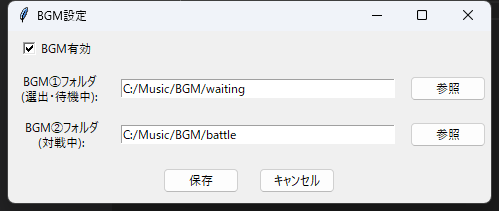
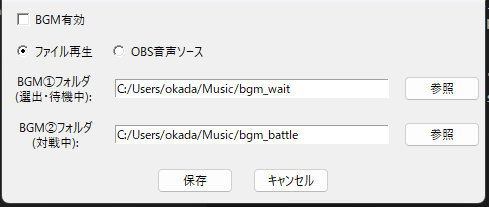
feat: BGM設定にOBS音声ソースモードを追加、バージョンを1.2.0に更新
- BGM設定にファイル再生/OBS音声ソースの2モード切り替えを追加
- OBSモードではゲームフェーズに応じて音声ソースのミュートをON/OFF制御
- BGM設定画面のスクショを更新（ファイル再生・OBSモード別）
- READMEのBGM設定説明を両モード対応に書き直し
- bgm.jsonをアップデート保持ファイルに追記

diff --git a/recog/recog.py b/recog/recog.py
@@ -323,29 +323,69 @@ class BgmSetting(tkinter.Toplevel):
             with open(self.path, "r", encoding="utf-8") as f:
                 self.initial_data = json.load(f)
         except FileNotFoundError:
-            self.initial_data = {"bgm_enabled": False, "bgm1_folder": "", "bgm2_folder": ""}
+            self.initial_data = {
+                "bgm_enabled": False,
+                "bgm_mode": "file",
+                "bgm1_folder": "",
+                "bgm2_folder": "",
+                "obs_audio_source1": "",
+                "obs_audio_source2": "",
+            }
 
         self.bgm_enabled_var = tkinter.BooleanVar(value=self.initial_data.get("bgm_enabled", False))
         tkinter.Checkbutton(self, text="BGM有効", variable=self.bgm_enabled_var).grid(
             row=0, column=0, columnspan=3, padx=10, pady=5, sticky="w"
         )
 
-        tkinter.Label(self, text="BGM①フォルダ\n(選出・待機中):").grid(row=2, column=0, padx=10, pady=5, sticky="e")
-        self.bgm1_var = tkinter.StringVar(value=self.initial_data.get("bgm1_folder", ""))
-        self.bgm1_entry = tkinter.Entry(self, textvariable=self.bgm1_var, width=45)
-        self.bgm1_entry.grid(row=2, column=1, padx=10, pady=5)
-        MyButton(self, text="参照", command=self._browse_bgm1).grid(row=2, column=2, padx=5)
+        self.bgm_mode_var = tkinter.StringVar(value=self.initial_data.get("bgm_mode", "file"))
+        mode_frame = tkinter.Frame(self)
+        mode_frame.grid(row=1, column=0, columnspan=3, padx=10, pady=2, sticky="w")
+        tkinter.Radiobutton(
+            mode_frame, text="ファイル再生", variable=self.bgm_mode_var, value="file",
+            command=self._on_mode_change,
+        ).pack(side="left")
+        tkinter.Radiobutton(
+            mode_frame, text="OBS音声ソース", variable=self.bgm_mode_var, value="obs",
+            command=self._on_mode_change,
+        ).pack(side="left", padx=(10, 0))
 
-        tkinter.Label(self, text="BGM②フォルダ\n(対戦中):").grid(row=3, column=0, padx=10, pady=5, sticky="e")
+        self._content_frame = tkinter.Frame(self)
+        self._content_frame.grid(row=2, column=0, columnspan=3, sticky="ew")
+
+        self._file_frame = tkinter.Frame(self._content_frame)
+        self.bgm1_var = tkinter.StringVar(value=self.initial_data.get("bgm1_folder", ""))
         self.bgm2_var = tkinter.StringVar(value=self.initial_data.get("bgm2_folder", ""))
-        self.bgm2_entry = tkinter.Entry(self, textvariable=self.bgm2_var, width=45)
-        self.bgm2_entry.grid(row=3, column=1, padx=10, pady=5)
-        MyButton(self, text="参照", command=self._browse_bgm2).grid(row=3, column=2, padx=5)
+        tkinter.Label(self._file_frame, text="BGM①フォルダ\n(選出・待機中):").grid(row=0, column=0, padx=10, pady=5, sticky="e")
+        self.bgm1_entry = tkinter.Entry(self._file_frame, textvariable=self.bgm1_var, width=45)
+        self.bgm1_entry.grid(row=0, column=1, padx=10, pady=5)
+        MyButton(self._file_frame, text="参照", command=self._browse_bgm1).grid(row=0, column=2, padx=5)
+        tkinter.Label(self._file_frame, text="BGM②フォルダ\n(対戦中):").grid(row=1, column=0, padx=10, pady=5, sticky="e")
+        self.bgm2_entry = tkinter.Entry(self._file_frame, textvariable=self.bgm2_var, width=45)
+        self.bgm2_entry.grid(row=1, column=1, padx=10, pady=5)
+        MyButton(self._file_frame, text="参照", command=self._browse_bgm2).grid(row=1, column=2, padx=5)
+
+        self._obs_frame = tkinter.Frame(self._content_frame)
+        self.obs_source1_var = tkinter.StringVar(value=self.initial_data.get("obs_audio_source1", ""))
+        self.obs_source2_var = tkinter.StringVar(value=self.initial_data.get("obs_audio_source2", ""))
+        tkinter.Label(self._obs_frame, text="BGM①音声ソース名\n(選出・待機中):").grid(row=0, column=0, padx=10, pady=5, sticky="e")
+        tkinter.Entry(self._obs_frame, textvariable=self.obs_source1_var, width=45).grid(row=0, column=1, padx=10, pady=5)
+        tkinter.Label(self._obs_frame, text="BGM②音声ソース名\n(対戦中):").grid(row=1, column=0, padx=10, pady=5, sticky="e")
+        tkinter.Entry(self._obs_frame, textvariable=self.obs_source2_var, width=45).grid(row=1, column=1, padx=10, pady=5)
+
+        self._on_mode_change()
 
         btn_frame = tkinter.Frame(self)
-        btn_frame.grid(row=4, column=0, columnspan=3, pady=10)
+        btn_frame.grid(row=3, column=0, columnspan=3, pady=10)
         MyButton(btn_frame, text="保存", command=self.submit_form).pack(side="left", padx=10)
         MyButton(btn_frame, text="キャンセル", command=self.destroy).pack(side="left", padx=10)
+
+    def _on_mode_change(self):
+        if self.bgm_mode_var.get() == "file":
+            self._obs_frame.pack_forget()
+            self._file_frame.pack(fill="x")
+        else:
+            self._file_frame.pack_forget()
+            self._obs_frame.pack(fill="x")
 
     def open(self, location=tuple[int, int]):
         self.grab_set()
@@ -367,8 +407,11 @@ class BgmSetting(tkinter.Toplevel):
     def submit_form(self):
         data = {
             "bgm_enabled": self.bgm_enabled_var.get(),
+            "bgm_mode": self.bgm_mode_var.get(),
             "bgm1_folder": self.bgm1_var.get(),
             "bgm2_folder": self.bgm2_var.get(),
+            "obs_audio_source1": self.obs_source1_var.get(),
+            "obs_audio_source2": self.obs_source2_var.get(),
         }
         with open(self.path, "w", encoding="utf-8") as f:
             json.dump(data, f, indent=2, ensure_ascii=False)

diff --git a/recog/capture.py b/recog/capture.py
@@ -48,8 +48,11 @@ class Capture:
         self.on_party_progress = None  # callback(current: int, total: int)
 
         self._bgm_enabled: bool = False
+        self._bgm_mode: str = "file"
         self._bgm1_folder: str = ""
         self._bgm2_folder: str = ""
+        self._obs_audio_source1: str = ""
+        self._obs_audio_source2: str = ""
         self._bgm_playing: str = ""
         self._sensyutu_end_disappeared_time: float | None = None
         self._load_bgm_config()
@@ -65,8 +68,11 @@ class Capture:
             with open("recog/bgm.json", "r", encoding="utf-8") as f:
                 data = json.load(f)
             self._bgm_enabled = data.get("bgm_enabled", False)
+            self._bgm_mode = data.get("bgm_mode", "file")
             self._bgm1_folder = data.get("bgm1_folder", "")
             self._bgm2_folder = data.get("bgm2_folder", "")
+            self._obs_audio_source1 = data.get("obs_audio_source1", "")
+            self._obs_audio_source2 = data.get("obs_audio_source2", "")
         except Exception:
             pass
 
@@ -83,8 +89,30 @@ class Capture:
         except Exception:
             return ""
 
+    def _switch_obs_audio(self, bgm_num: int):
+        source1 = self._obs_audio_source1
+        source2 = self._obs_audio_source2
+        try:
+            if bgm_num == 1:
+                if source1:
+                    self.loop.run_until_complete(self.obs.set_input_mute(source1, False))
+                if source2 and source2 != source1:
+                    self.loop.run_until_complete(self.obs.set_input_mute(source2, True))
+            else:
+                if source1 and source1 != source2:
+                    self.loop.run_until_complete(self.obs.set_input_mute(source1, True))
+                if source2:
+                    self.loop.run_until_complete(self.obs.set_input_mute(source2, False))
+            self._bgm_playing = f"bgm{bgm_num}"
+            print(f"[BGM/OBS] switched to bgm{bgm_num}")
+        except Exception as e:
+            print(f"[BGM/OBS] error: {e}")
+
     def _switch_bgm(self, bgm_num: int):
         if not self._bgm_enabled:
+            return
+        if self._bgm_mode == "obs":
+            self._switch_obs_audio(bgm_num)
             return
         folder = self._bgm1_folder if bgm_num == 1 else self._bgm2_folder
         path = self._pick_random_bgm(folder)
@@ -121,10 +149,18 @@ class Capture:
     def disconnect_websocket(self):
         try:
             if self._bgm_enabled:
-                try:
-                    pygame.mixer.music.stop()
-                except Exception:
-                    pass
+                if self._bgm_mode == "obs":
+                    for src in {self._obs_audio_source1, self._obs_audio_source2}:
+                        if src:
+                            try:
+                                self.loop.run_until_complete(self.obs.set_input_mute(src, True))
+                            except Exception:
+                                pass
+                else:
+                    try:
+                        pygame.mixer.music.stop()
+                    except Exception:
+                        pass
             self.loop.run_until_complete(self.obs.break_request())
             self._bgm_playing = ""
             return True

diff --git a/recog/obs.py b/recog/obs.py
@@ -43,4 +43,15 @@ class Obs(object):
         else:
             return
 
+    async def set_input_mute(self, source: str, muted: bool):
+        request = simpleobsws.Request(
+            "SetInputMute",
+            {
+                "inputName": source,
+                "inputMuted": muted,
+            },
+        )
+        ret = await self.ws.call(request)
+        return ret.ok() if ret else False
+
 

diff --git a/README.md b/README.md
@@ -349,18 +349,34 @@
 
 ### BGM設定
 
-![BGM設定](/image/readme/setting_bgm.png)
-
 - メニューの「BGM設定」から設定できる
-- 「BGM有効」チェックをONにすると、キャプチャ監視中にフェーズに応じてBGMが自動再生される
-- BGM①フォルダ（選出画面・待機中）とBGM②フォルダ（対戦中）の2種類をフォルダ単位で指定する
+- 「BGM有効」チェックをONにすると、キャプチャ監視中にフェーズに応じてBGMが自動制御される
+- **ファイル再生モード**と**OBS音声ソースモード**の2種類をラジオボタンで切り替えられる
+
+#### ファイル再生モード
+
+![BGM設定（ファイル再生）](/image/readme/setting_bgm.png)
+
+- BGM①フォルダ（選出画面・待機中）とBGM②フォルダ（対戦中）をフォルダ単位で指定する
   - 指定フォルダ内のファイルからランダムに選ばれループ再生される
   - 対応フォーマット: `.mp3` `.wav` `.ogg` `.flac` `.aac` `.m4a`
-- フェーズ遷移に合わせた切り替え動作:
-  - 選出画面検知 → BGM①再生開始
-  - 選出終了から約3秒後（対戦開始前） → BGM②へ切り替え
-  - 対戦中 → BGM②を維持
-  - 勝敗確定（結果画面検知） → BGM①へ切り替え
+
+#### OBS音声ソースモード
+
+![BGM設定（OBS音声ソース）](/image/readme/setting_bgm_obs.png)
+
+- OBSに登録済みのアプリケーション音声キャプチャなどの音声ソースをフェーズに応じてオン/オフする
+- BGM①音声ソース名（選出・待機中）とBGM②音声ソース名（対戦中）にOBSのソース名を入力する
+  - フェーズ切り替え時、アクティブなソースをミュート解除・非アクティブなソースをミュートする
+  - 接続切断時は両ソースをミュートして終了する
+  - ソース名はOBSのソース一覧に表示されている名前をそのまま入力する
+
+#### フェーズ遷移と切り替えタイミング（両モード共通）
+
+- 選出画面検知 → BGM①へ切り替え
+- 選出終了から約3秒後（対戦開始前） → BGM②へ切り替え
+- 対戦中 → BGM②を維持
+- 勝敗確定（結果画面検知） → BGM①へ切り替え
 
 ## DBバックアップ
 
@@ -379,7 +395,7 @@
   - `stats/`（HOMEデータ・構築記事データ等）
   - `party/csv/`, `party/txt/`, `party/table/`（パーティデータ）
   - `party/setting.txt`（使用パーティ設定）
-  - `recog/capture.json`, `recog/setting.json`（OBS・アプリ設定）
+  - `recog/capture.json`, `recog/setting.json`, `recog/bgm.json`（OBS・アプリ・BGM設定）
 
 ## 配信モード
 